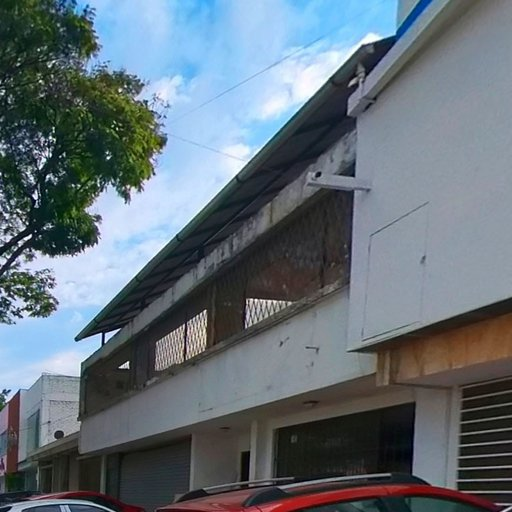
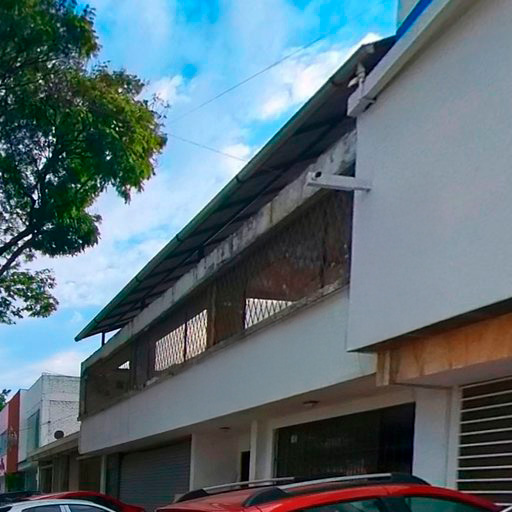
Mejoras en textos y cambios de colores

diff --git a/data.js b/data.js
@@ -38,11 +38,11 @@ var APP_DATA = {
       ],
       "infoHotspots": [
         {
-          "yaw": 2.3141589209019875,
-          "pitch": -0.4137093992882086,
+          "yaw": 2.9704263751692395,
+          "pitch": -0.45,
           "title": "<i style=\"font-size: 13px; text-align: justify; background-color: rgba(58, 68, 84, 0.8);\"><span lang=\"ES-CO\" style=\"font-family: Arial, sans-serif;\">¡Bienvenida/o a Iesthetic!&nbsp;</span></i>",
           "text": "<p class=\"MsoNormal\" style=\"text-align:justify;line-height:115%\"><i><span lang=\"ES-CO\" style=\"font-family:&quot;Arial&quot;,sans-serif\">Recorre nuestras instalaciones y conoce cada espacio donde vivirás experiencias\núnicas mientras te formas.</span></i></p>"
-        }
+        },
       ]
     },
     {
@@ -69,8 +69,8 @@ var APP_DATA = {
       ],
       "faceSize": 1488,
       "initialViewParameters": {
-        "yaw": 2.202927384536909,
-        "pitch": 0.08277692479817667,
+        "yaw": -0.1,
+        "pitch": -0.0,
         "fov": 1.2603348696094558
       },
       "linkHotspots": [
@@ -101,12 +101,16 @@ var APP_DATA = {
           "text": "<p class=\"MsoNormal\" style=\"text-align:justify;line-height:115%\"><i style=\"font-family: inherit; font-size: inherit; font-variant-ligatures: inherit; font-variant-caps: inherit; font-weight: inherit;\"><span lang=\"ES-CO\" style=\"font-family:&quot;Arial&quot;,sans-serif\">Aquí te damos la bienvenida\na Iesthetic. Nuestro equipo de recepción está listo para orientarte en todo lo\nque necesites al ingresar a nuestra institución.</span></i></p>"
         },
         {
-          "yaw": -0.5497984840217995,
-          "pitch": -0.1041505908103666,
+          "yaw": 0.25,
+          "pitch": -0.025,
           "title": "Cartera",
           "text": "<i><span lang=\"ES-CO\" style=\"font-size:12.0pt;\nfont-family:&quot;Arial&quot;,sans-serif;mso-fareast-font-family:Aptos;mso-fareast-theme-font:\nminor-latin;mso-ansi-language:ES-CO;mso-fareast-language:EN-US;mso-bidi-language:\nAR-SA\">En esta área puedes &nbsp;resolver\ndudas sobre asesoría financiera sobre tus programas y cursos.</span></i><div><i><span lang=\"ES-CO\" style=\"font-size:12.0pt;\nfont-family:&quot;Arial&quot;,sans-serif;mso-fareast-font-family:Aptos;mso-fareast-theme-font:\nminor-latin;mso-ansi-language:ES-CO;mso-fareast-language:EN-US;mso-bidi-language:\nAR-SA\"><br></span></i></div><div><i><span lang=\"ES-CO\" style=\"font-size:12.0pt;\nfont-family:&quot;Arial&quot;,sans-serif;mso-fareast-font-family:Aptos;mso-fareast-theme-font:\nminor-latin;mso-ansi-language:ES-CO;mso-fareast-language:EN-US;mso-bidi-language:\nAR-SA\">Horarios: Lunes\na Sábado 8:00 a 12:00 – 2:00 a 6:00</span></i></div>"
-        }
-      ]
+        },{
+          "yaw": 2.7,
+          "pitch": -0.15,
+          "title": "Campaña de Referidos",
+          "text": "<i><span lang=\"ES-CO\" style=\"font-size:12.0pt;\nfont-family:&quot;Arial&quot;,sans-serif;mso-fareast-font-family:Aptos;mso-fareast-theme-font:\nminor-latin;mso-ansi-language:ES-CO;mso-fareast-language:EN-US;mso-bidi-language:\nAR-SA\">No olvides que en Iesthetic puedes invitar a tus conocidos a estudiar y\nrecibir beneficios gracias a nuestra campaña ‘Refiere y Gana’</span></i>"
+        }, ]
     },
     {
       "id": "2-saln-prctico-de-peluqueria",
@@ -146,8 +150,8 @@ var APP_DATA = {
       ],
       "infoHotspots": [
         {
-          "yaw": -1.3704603383146559,
-          "pitch": -0.24282143470979278,
+          "yaw": -1.3,
+          "pitch": -0.28,
           "title": "Salón Práctico de Peluquería",
           "text": "<i><span lang=\"ES-CO\" style=\"font-size:12.0pt;\nfont-family:&quot;Arial&quot;,sans-serif;mso-fareast-font-family:Aptos;mso-fareast-theme-font:\nminor-latin;mso-ansi-language:ES-CO;mso-fareast-language:EN-US;mso-bidi-language:\nAR-SA\">En este salón desarrollarás tus habilidades en técnicas de corte, color\ny peinado. Mira el video para conocer una muestra de nuestras prácticas en\nacción</span></i>"
         }
@@ -207,7 +211,18 @@ var APP_DATA = {
           "target": "1-recepcin"
         }
       ],
-      "infoHotspots": []
+      "infoHotspots": [ {
+          "yaw": -4.5,
+          "pitch": -0.15,
+          "title": "Campaña de Referidos",
+          "text": "<i><span lang=\"ES-CO\" style=\"font-size:12.0pt;\nfont-family:&quot;Arial&quot;,sans-serif;mso-fareast-font-family:Aptos;mso-fareast-theme-font:\nminor-latin;mso-ansi-language:ES-CO;mso-fareast-language:EN-US;mso-bidi-language:\nAR-SA\">No olvides que en Iesthetic puedes invitar a tus conocidos a estudiar y\nrecibir beneficios gracias a nuestra campaña ‘Refiere y Gana’</span></i>"
+        },
+        {
+          "yaw": -3.8,
+          "pitch": -0.0,
+          "title": "Caja",
+          "text": "<i><span lang=\"ES-CO\" style=\"font-size:12.0pt;\nfont-family:&quot;Arial&quot;,sans-serif;mso-fareast-font-family:Aptos;mso-fareast-theme-font:\nminor-latin;mso-ansi-language:ES-CO;mso-fareast-language:EN-US;mso-bidi-language:\nAR-SA\">Aquí puedes realizar tus pagos en efectivo, tarjetas o transferencias.\nHorario 7:30 a 12:30 – 1:30 a 6:30</span></i>"
+        }]
     },
     {
       "id": "4-almacen",
@@ -256,7 +271,7 @@ var APP_DATA = {
     },
     {
       "id": "5-rea-acadmica",
-      "name": "Área Académica",
+      "name": "Matriculación",
       "levels": [
         {
           "tileSize": 256,
@@ -294,8 +309,8 @@ var APP_DATA = {
         {
           "yaw": 0.7269127038005188,
           "pitch": -0.05089674651860854,
-          "title": "Área Académica",
-          "text": "<i><span lang=\"ES-CO\" style=\"font-size:12.0pt;\nfont-family:&quot;Arial&quot;,sans-serif;mso-fareast-font-family:Aptos;mso-fareast-theme-font:\nminor-latin;mso-ansi-language:ES-CO;mso-fareast-language:EN-US;mso-bidi-language:\nAR-SA\">Aquí podrás resolver inquietudes sobre tu proceso académico, calendario,\nbienestar académico, calificaciones y todo lo relacionado con tus clases y\nevaluaciones.</span></i><div><i><span lang=\"ES-CO\" style=\"font-size:12.0pt;\nfont-family:&quot;Arial&quot;,sans-serif;mso-fareast-font-family:Aptos;mso-fareast-theme-font:\nminor-latin;mso-ansi-language:ES-CO;mso-fareast-language:EN-US;mso-bidi-language:\nAR-SA\"><br></span></i></div><div><i><span lang=\"ES-CO\" style=\"font-size:12.0pt;\nfont-family:&quot;Arial&quot;,sans-serif;mso-fareast-font-family:Aptos;mso-fareast-theme-font:\nminor-latin;mso-ansi-language:ES-CO;mso-fareast-language:EN-US;mso-bidi-language:\nAR-SA\">Lunes a Sábado 8:00 a 12:30 – 1:30 a 6:30</span></i></div>"
+          "title": "Matriculación",
+          "text": "<i><span lang=\"ES-CO\" style=\"font-size:12.0pt;\nfont-family:&quot;Arial&quot;,sans-serif;mso-fareast-font-family:Aptos;mso-fareast-theme-font:\nminor-latin;mso-ansi-language:ES-CO;mso-fareast-language:EN-US;mso-bidi-language:\nAR-SA\">En este espacio es donde formalizas financieramente tu procesos de matrícula y se te da información completa sobre tu programa de interés</span></i><div><i><span lang=\"ES-CO\" style=\"font-size:12.0pt;\nfont-family:&quot;Arial&quot;,sans-serif;mso-fareast-font-family:Aptos;mso-fareast-theme-font:\nminor-latin;mso-ansi-language:ES-CO;mso-fareast-language:EN-US;mso-bidi-language:\nAR-SA\"><br></span></i></div><div><i><span lang=\"ES-CO\" style=\"font-size:12.0pt;\nfont-family:&quot;Arial&quot;,sans-serif;mso-fareast-font-family:Aptos;mso-fareast-theme-font:\nminor-latin;mso-ansi-language:ES-CO;mso-fareast-language:EN-US;mso-bidi-language:\nAR-SA\">Lunes a Sábado 8:00 a 12:00 – 2:00 a 6:00</span></i></div>"
         }
       ]
     },
@@ -472,7 +487,7 @@ var APP_DATA = {
     },
     {
       "id": "9-matrcula-acadmica",
-      "name": "Matrícula Académica",
+      "name": "Coordinación Académica",
       "levels": [
         {
           "tileSize": 256,
@@ -510,8 +525,8 @@ var APP_DATA = {
         {
           "yaw": 0.2901323094347781,
           "pitch": -0.03455561185645095,
-          "title": "Matrícula Académica",
-          "text": "<i><span lang=\"ES-CO\" style=\"font-size:12.0pt;\nfont-family:&quot;Arial&quot;,sans-serif;mso-fareast-font-family:Aptos;mso-fareast-theme-font:\nminor-latin;mso-ansi-language:ES-CO;mso-fareast-language:EN-US;mso-bidi-language:\nAR-SA\">En este espacio formalizas académica tu proceso de matrícula y se te da\nla inducción a nuestra plataforma institucional .</span></i><div><i><span lang=\"ES-CO\" style=\"font-size:12.0pt;\nfont-family:&quot;Arial&quot;,sans-serif;mso-fareast-font-family:Aptos;mso-fareast-theme-font:\nminor-latin;mso-ansi-language:ES-CO;mso-fareast-language:EN-US;mso-bidi-language:\nAR-SA\"><br></span></i></div><div><i><span lang=\"ES-CO\" style=\"font-size:12.0pt;\nfont-family:&quot;Arial&quot;,sans-serif;mso-fareast-font-family:Aptos;mso-fareast-theme-font:\nminor-latin;mso-ansi-language:ES-CO;mso-fareast-language:EN-US;mso-bidi-language:\nAR-SA\">Lunes a Sábado 8:00 a 12:30\n– 1:30 a 6:30</span></i></div>"
+          "title": "Coordinación académica",
+          "text": "<i><span lang=\"ES-CO\" style=\"font-size:12.0pt;\nfont-family:&quot;Arial&quot;,sans-serif;mso-fareast-font-family:Aptos;mso-fareast-theme-font:\nminor-latin;mso-ansi-language:ES-CO;mso-fareast-language:EN-US;mso-bidi-language:\nAR-SA\">Aquí puedes consultar tus inquietudes, programaciones de clases , recuperaciones, prácticas preparatorias y más temas académicos.</span></i><div><i><span lang=\"ES-CO\" style=\"font-size:12.0pt;\nfont-family:&quot;Arial&quot;,sans-serif;mso-fareast-font-family:Aptos;mso-fareast-theme-font:\nminor-latin;mso-ansi-language:ES-CO;mso-fareast-language:EN-US;mso-bidi-language:\nAR-SA\"><br></span></i></div><div><i><span lang=\"ES-CO\" style=\"font-size:12.0pt;\nfont-family:&quot;Arial&quot;,sans-serif;mso-fareast-font-family:Aptos;mso-fareast-theme-font:\nminor-latin;mso-ansi-language:ES-CO;mso-fareast-language:EN-US;mso-bidi-language:\nAR-SA\">Lunes a Sábado 8:00 a 12:30\n– 1:30 a 6:30</span></i></div>"
         }
       ]
     },
@@ -553,8 +568,8 @@ var APP_DATA = {
       ],
       "infoHotspots": [
         {
-          "yaw": 3.074297741893626,
-          "pitch": 0.2029807158206154,
+          "yaw": -0.08,
+          "pitch": -0.19,
           "title": "Salón de Estética",
           "text": "<i><span lang=\"ES-CO\" style=\"font-size:12.0pt;\nfont-family:&quot;Arial&quot;,sans-serif;mso-fareast-font-family:Aptos;mso-fareast-theme-font:\nminor-latin;mso-ansi-language:ES-CO;mso-fareast-language:EN-US;mso-bidi-language:\nAR-SA\">En este salón vivirás la experiencia de aprender técnicas faciales,\ncorporales y de bienestar con atención a modelos reales</span></i>"
         }
@@ -647,7 +662,12 @@ var APP_DATA = {
           "target": "13-tercer-piso"
         }
       ],
-      "infoHotspots": []
+      "infoHotspots": [ {
+          "yaw": 0.6,
+          "pitch": -0.0,
+          "title": "Campaña de Referidos",
+          "text": "<i><span lang=\"ES-CO\" style=\"font-size:12.0pt;\nfont-family:&quot;Arial&quot;,sans-serif;mso-fareast-font-family:Aptos;mso-fareast-theme-font:\nminor-latin;mso-ansi-language:ES-CO;mso-fareast-language:EN-US;mso-bidi-language:\nAR-SA\">No olvides que en Iesthetic puedes invitar a tus conocidos a estudiar y\nrecibir beneficios gracias a nuestra campaña ‘Refiere y Gana’</span></i>"
+        }]
     },
     {
       "id": "13-tercer-piso",
@@ -707,7 +727,7 @@ var APP_DATA = {
     },
     {
       "id": "14-saln-prctico-de-maquillaje",
-      "name": "Salón Práctico de Maquillaje",
+      "name": "Salón Práctico de Maquillaje Artístico y Decorativo",
       "levels": [
         {
           "tileSize": 256,

diff --git a/style.css b/style.css
@@ -42,6 +42,10 @@ a, a:hover, a:active, a:visited {
   overflow: hidden;
 }
 
+#pano canvas {
+  filter: brightness(1.08) contrast(1.1);/* Puedes ajustar el valor */
+}
+
 #titleBar {
   position: absolute;
   top: 0;
@@ -79,8 +83,8 @@ body.multiple-scenes.mobile #titleBar {
   height: 100%;
   line-height: 30px;
   padding: 5px;
-  background-color: rgb(58,68,84);
-  background-color: rgba(58,68,84,0.8);
+  background-color: rgb(0, 4, 54);
+  background-color: rgba(0, 4, 54,0.8);
   overflow: hidden;
   text-overflow: ellipsis;
   white-space: nowrap;
@@ -103,8 +107,8 @@ body.multiple-scenes.mobile #titleBar {
   width: 40px;
   height: 40px;
   padding: 5px;
-  background-color: rgb(103,115,131);
-  background-color: rgba(103,115,131,0.8);
+  background-color: rgb(0, 4, 54);
+  background-color: rgba(0, 4, 54, 0.8);
 }
 
 .mobile #fullscreenToggle {
@@ -153,8 +157,8 @@ body.fullscreen-enabled #fullscreenToggle {
   width: 40px;
   height: 40px;
   padding: 5px;
-  background-color: rgb(103,115,131);
-  background-color: rgba(103,115,131,0.8);
+  background-color: rgb(0, 4, 54);
+  background-color: rgba(0, 4, 54,0.8);
 }
 
 .mobile #autorotateToggle {
@@ -207,8 +211,8 @@ body.fullscreen-enabled.mobile #autorotateToggle {
   width: 40px;
   height: 40px;
   padding: 5px;
-  background-color: rgb(103,115,131);
-  background-color: rgba(103,115,131,0.8);
+  background-color: rgb(30, 32, 34);
+  background-color: rgba(30, 32, 34,0.8);
 }
 
 .mobile #sceneListToggle {
@@ -273,8 +277,8 @@ body.fullscreen-enabled.mobile #autorotateToggle {
 
 #sceneList .scenes {
   width: 100%;
-  background-color: rgb(58,68,84);
-  background-color: rgba(58,68,84,0.8);
+  background-color: rgb(30, 32, 34);
+  background-color: rgba(30, 32, 34,0.8);
 }
 
 .mobile #sceneList {
@@ -453,7 +457,7 @@ body.single-scene #sceneList, body.single-scene #sceneListToggle {
   width: 40px;
   height: 40px;
   border-radius: 20px;
-  background-color: rgb(103,115,131);
+  background-color: rgb(195, 4, 65);
   cursor: pointer;
   -webkit-transition: width 0.3s ease-in-out 0.5s,
                       border-radius 0.3s ease-in-out 0.5s;
@@ -553,7 +557,7 @@ body.single-scene #sceneList, body.single-scene #sceneListToggle {
   height: 40px;
   width: 40px;
   border-top-right-radius: 5px;
-  background-color: rgb(78,88,104);
+  background-color: rgb(195, 4, 65);
   visibility: hidden;
   -ms-transform: perspective(200px) rotateY(90deg);
   -webkit-transform: perspective(200px) rotateY(90deg);

diff --git a/index.html b/index.html
@@ -36,7 +36,7 @@
       </a>
     
       <a href="javascript:void(0)" class="scene" data-id="5-rea-acadmica">
-        <li class="text">Área Académica</li>
+        <li class="text">Matriculación</li>
       </a>
     
       <a href="javascript:void(0)" class="scene" data-id="6-escaleras-segundo-piso">
@@ -52,7 +52,7 @@
       </a>
     
       <a href="javascript:void(0)" class="scene" data-id="9-matrcula-acadmica">
-        <li class="text">Matrícula Académica</li>
+        <li class="text">Coordinación Académica</li>
       </a>
     
       <a href="javascript:void(0)" class="scene" data-id="10-saln-prctico-de-esttica">
@@ -72,11 +72,11 @@
       </a>
     
       <a href="javascript:void(0)" class="scene" data-id="14-saln-prctico-de-maquillaje">
-        <li class="text">Salón Práctico de Maquillaje</li>
+        <li class="text">Salón Práctico de Maquillaje Artístico y Decorativo</li>
       </a>
     
       <a href="javascript:void(0)" class="scene" data-id="15-segundo-saln-de-maquillaje">
-        <li class="text">Segundo Salón de Maquillaje</li>
+        <li class="text">Segundo Salón de Maquillaje Artístico y Decorativo</li>
       </a>
     
       <a href="javascript:void(0)" class="scene" data-id="16-saln-terico">
